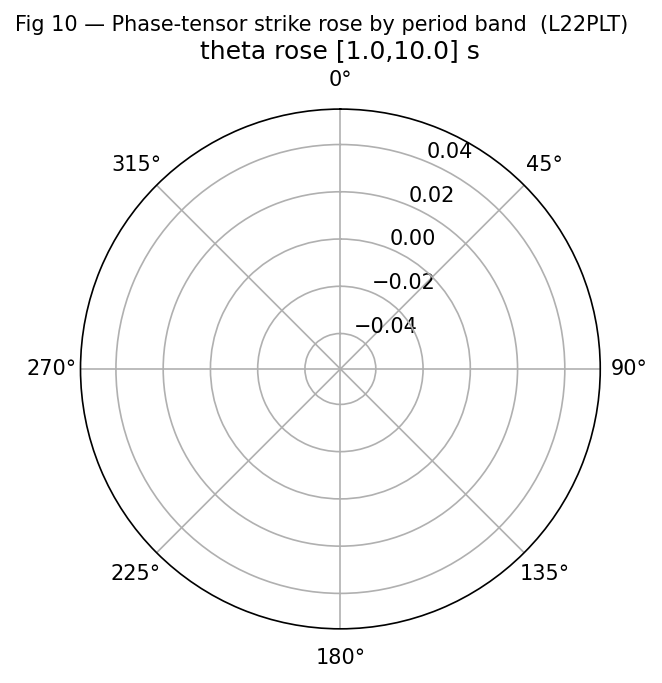
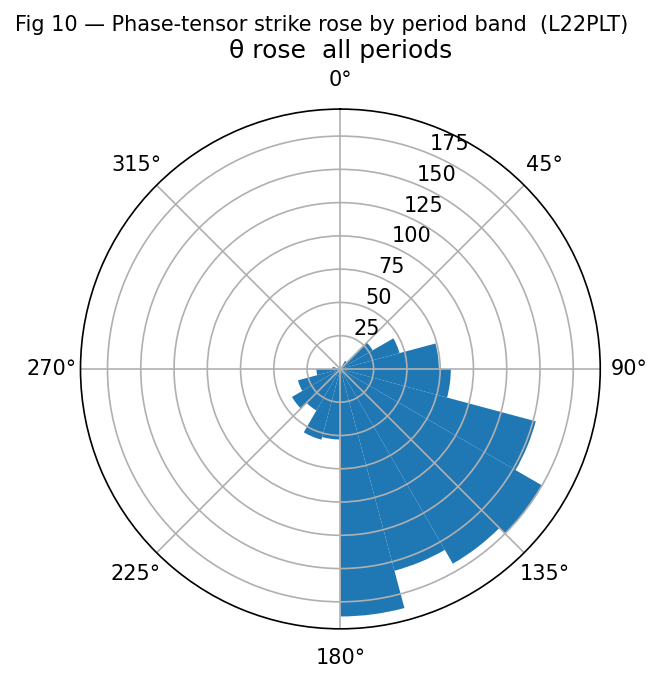
fix plot_phase_tensor_rose: default band=None instead of (1.0,10.0)
The hard-coded default band=(1.0, 10.0) s selected zero rows for AMT
data whose period range is entirely below 1 s (WILLY_DATA: 9.6e-5 to
0.99 s), producing an all-zero histogram and a blank rose diagram.

Change default to band=None (use all periods) and derive the title
label accordingly; callers that need a specific band can still pass it.

diff --git a/pycsamt/emtools/tensor.py b/pycsamt/emtools/tensor.py
@@ -1093,7 +1093,7 @@ def plot_dimensionality_psection(
 def plot_phase_tensor_rose(
     sites: Any,
     *,
-    band: Tuple[float, float] = (1.0, 10.0),
+    band: Optional[Tuple[float, float]] = None,
     bins: int = 24,
     figsize: Tuple[float, float] = (5.0, 5.0),
     recursive: bool = True,
@@ -1118,8 +1118,13 @@ def plot_phase_tensor_rose(
         ax.text(0.5, 0.5, "no phase tensor",
                 ha="center", va="center")
         return ax
-    lo, hi = band
-    sel = (df["period"] >= lo) & (df["period"] <= hi)
+    if band is not None:
+        lo, hi = band
+        sel = (df["period"] >= lo) & (df["period"] <= hi)
+        band_label = f"[{lo},{hi}] s"
+    else:
+        sel = np.ones(len(df), dtype=bool)
+        band_label = "all periods"
     th = np.radians(df.loc[sel, "theta"].to_numpy())
     th = (th + 2 * np.pi) % (2 * np.pi)
     if ax is None:
@@ -1134,7 +1139,7 @@ def plot_phase_tensor_rose(
     ax.bar(ang, hist, width=edges[1] - edges[0])
     ax.set_theta_zero_location("N")
     ax.set_theta_direction(-1)
-    ax.set_title(f"theta rose [{lo},{hi}] s")
+    ax.set_title(f"θ rose  {band_label}")
     return ax
 
 def plot_phase_tensor_map(
